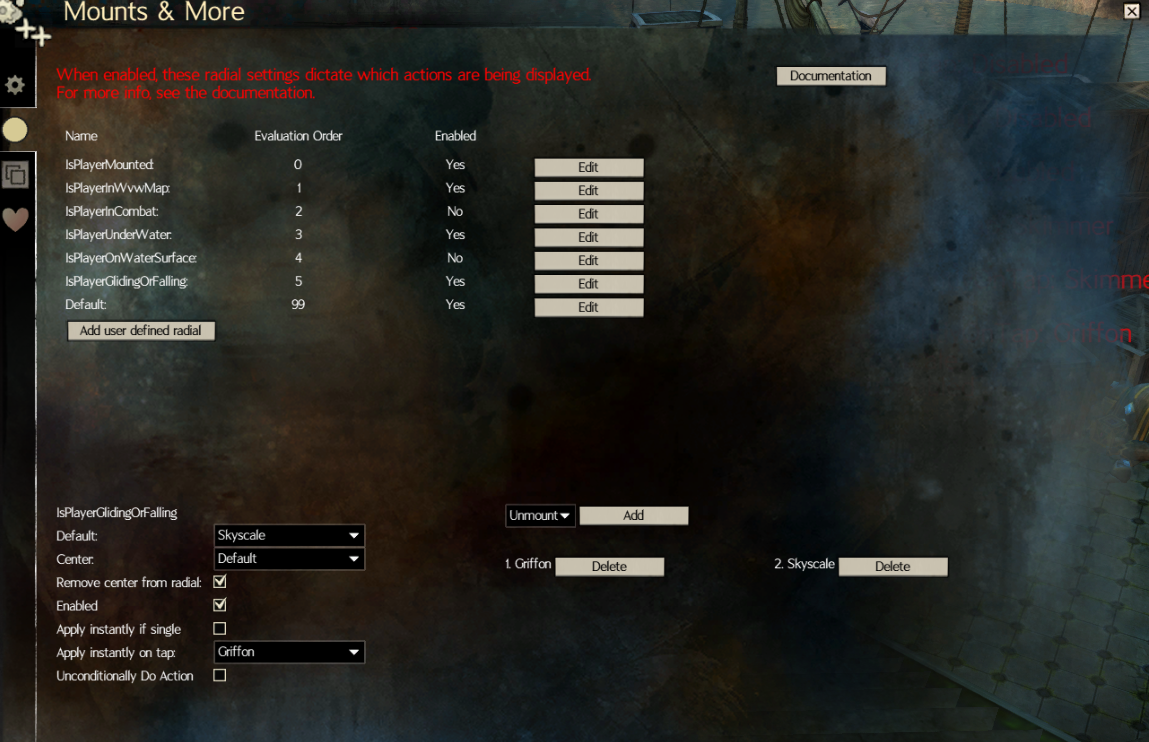
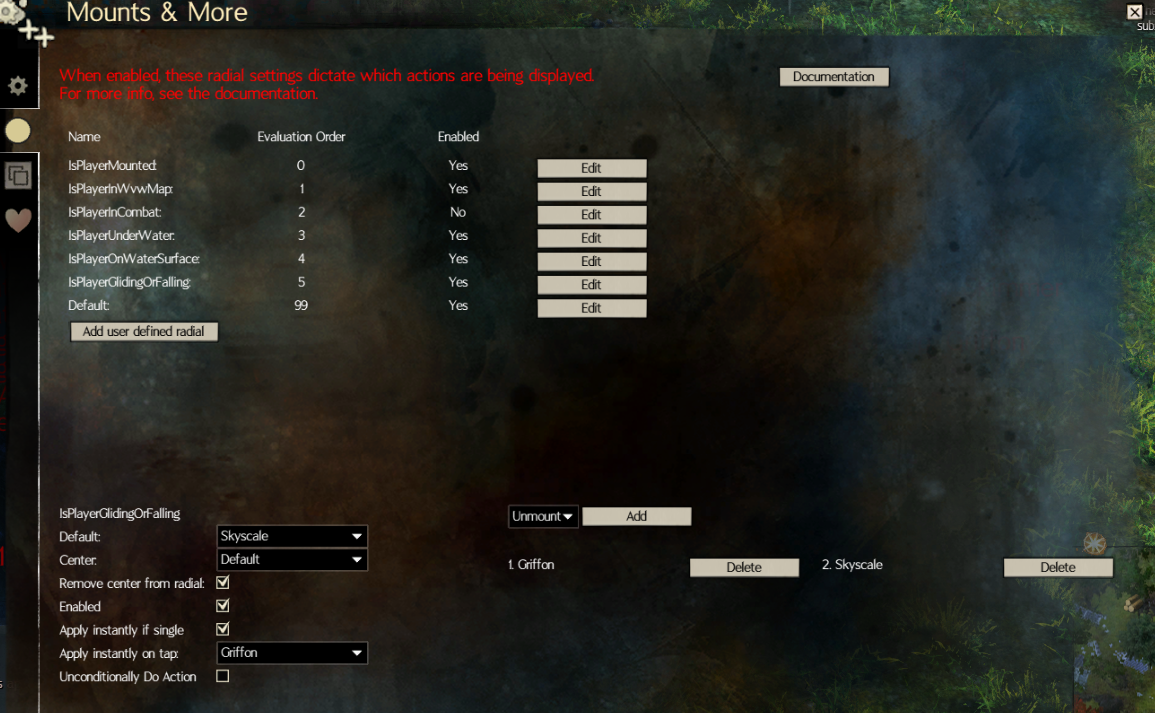
remove tapped action to allow "Apply instantly on tap" to work together with "Apply instantly if single"

diff --git a/Module.cs b/Module.cs
@@ -702,16 +702,20 @@ namespace Manlaan.Mounts
                 return;
             }
 
+            Thing tappedThing = things.FirstOrDefault(t => t.Name == selectedRadialSettings.ApplyInstantlyOnTap.Value);
             if (tappedModuleKeybind == TappedModuleKeybindState.True && selectedRadialSettings.IsTapApplicable())
             {
-                Thing thing = things.FirstOrDefault(t => t.Name == selectedRadialSettings.ApplyInstantlyOnTap.Value);
-                await thing?.DoAction(selectedRadialSettings.UnconditionallyDoAction.Value);
-                Logger.Debug($"{nameof(DoKeybindActionAsync)} not showing radial selected thing (tappedModuleKeybind): {thing?.Name}");
+                await tappedThing?.DoAction(selectedRadialSettings.UnconditionallyDoAction.Value);
+                Logger.Debug($"{nameof(DoKeybindActionAsync)} not showing radial selected thing (tappedModuleKeybind): {tappedThing?.Name}");
                 tappedModuleKeybind = TappedModuleKeybindState.Unknown;
                 return;
             }
             else
             {
+                if(things.Count() > 1 && tappedThing != null)
+                {
+                    things.Remove(tappedThing);
+                }
                 tappedModuleKeybind = TappedModuleKeybindState.Unknown;
             }
 

diff --git a/Settings/ContextualRadialThingSettings.cs b/Settings/ContextualRadialThingSettings.cs
@@ -46,7 +46,7 @@ namespace Mounts.Settings
 
         public bool IsTapApplicable()
         {
-            return ApplyInstantlyOnTap.Value != "Disabled";
+            return ApplyInstantlyOnTap.Value != "Disabled" && Module._settingTapThresholdInMilliseconds.Value != 0;
         }
 
         private void ThingsSetting_SettingChanged(object sender, ValueChangedEventArgs<IList<string>> e)

diff --git a/README.md b/README.md
@@ -56,7 +56,7 @@ On the right you'll see a list of settings:
   - Higher: less flickering, but slower change of state (to and from IsPlayerGlidingOrFalling).
 
 #### Tap Threshold
-The threshold to determine whether a [module keybind](#the-module-keybind) press is a "tap" (in milliseconds). Used in ["Apply instantly on tap"](#apply-instantly-on-tap).
+The threshold to determine whether a [module keybind](#the-module-keybind) press (press and release) is a "tap" (in milliseconds, 1000 milliseconds is 1 second). Used in ["Apply instantly on tap"](#apply-instantly-on-tap). Set to 0 to completely disable taps.
 
 #### Display the module on the loading screen
 Either display or not display the module on the loading screen.
@@ -189,16 +189,31 @@ Remember the "hard coded logic" we talked about earlier in the section, this is 
 
 ##### Apply instantly on tap
 Version 1.5.0 of the module introduces the concept of tapping the module keybind.
-A tap is defined by the user pressing the module keybind and releasing it within the [Tap Threshold](#tap-threshold).
-When the threshold is exceeded the normal radial is shown even if the user is still holding the module keybind.
 This is only applicable to the module keybind, e.g. for contextual radial settings, **not for user-defined radial settings**.
 
-This allows the user to instantly trigger 1 action per contextual radial settings whilst still keeping the existing radial.
-In the screenshot below the user has configured the following:
-- "Apply instantly on tap": Griffon
-- "Default": Skyscale (and "Center": Default)
+A tap is defined by the user pressing the module keybind and releasing it within the [Tap Threshold](#tap-threshold).
+When the threshold is exceeded the normal logic kicks in even if the user is still holding the module keybind.
 
-When the radial context is active this allows the user to tap the module keybind to use griffon and hold it to spawn the radial. The "Apply instantly on tap" action is removed from radial. Since skyscale is default and the default is put in the center, when the user releases the module keybind without moving the mouse it will trigger skyscale.
+The normal logic is the following:
+1. check "Apply instantly if single"
+1. default action in case of mouse dragging (see [default action](#default-action))
+1. do default action or display radial (see [default action](#default-action))
+
+This allows the user to instantly trigger 1 action per contextual radial settings whilst still keeping the existing radial (when Apply instantly if single is disabled).
+
+The selected action in "Apply instantly on tap" is removed from the logic once the user exceeds the tap threshold.
+This allows "Apply instantly on tap" to work together with "Apply instantly if single" (if enabled).
+Meaning that if the user held the module keybind too long the tap action is removed from the possible options.
+If after the removal there is only 1 action left in the context Apply instantly if single will trigger, see example below.
+
+In the screenshot below the user has configured the following:
+- 2 actions: Griffon and Skyscale
+- "Apply instantly if single" enabled
+- "Apply instantly on tap": Griffon
+
+When the radial context is active this allows the user to tap the module keybind to use griffon.
+When the user holds the module keybind. The "Apply instantly on tap" action is removed from radial which only leavee skyscale is the only left over action and .
+
 
 ![](./readme/tap_flying_griffon_skyscale.png)
 
